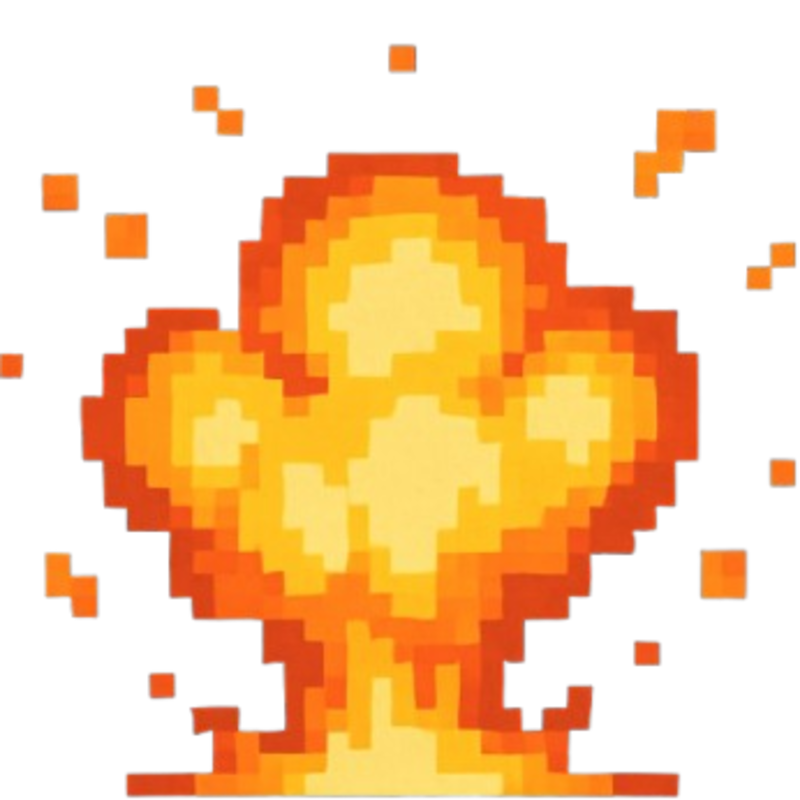
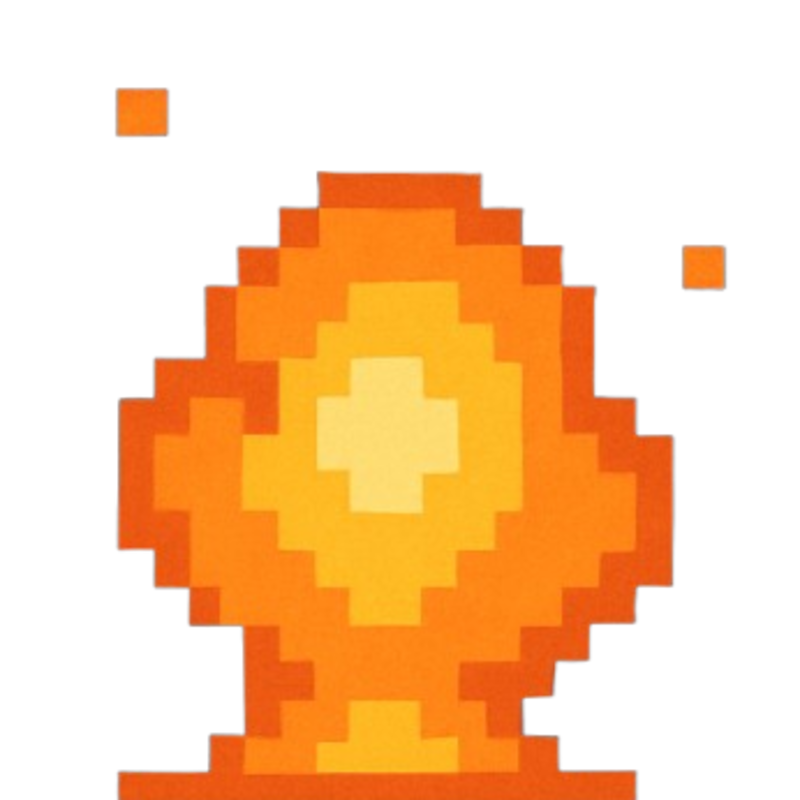
画像追加

diff --git a/DxLib_TGS2025/Src/Object/car.cpp b/DxLib_TGS2025/Src/Object/car.cpp
@@ -159,6 +159,7 @@ void CarResourceInit(void)
 	car.boom_animtion[1] = LoadGraph("Resource/images/boom1.png");
 	car.boom_animtion[2] = LoadGraph("Resource/images/boom2.png");
 	car.boom_animtion[3] = LoadGraph("Resource/images/boom3.png");
+	car.boom_animtion[4] = LoadGraph("Resource/images/boom4.png");
 
 	car.warn_image[0] = LoadGraph("Resource/images/Warn_image2.png");
 	car.warn_image[1] = LoadGraph("Resource/images/Warn_image.png");
@@ -910,7 +911,7 @@ void CarWarnUpdate(const Goal*goal,const GameOver*gameover,const InGame*ingame)
 	 if (car.boom_flag == true)
 	 {
 		 car.boom_count++;
-		 if (car.boom_count > 30 && car.boom_count % 10 == 0 && car.boom_num < 4)
+		 if (car.boom_count > 30 && car.boom_count % 12 == 0 && car.boom_num < 5)
 		 {
 			 car.boom_num++;
 		 }
@@ -931,7 +932,7 @@ void CarWarnUpdate(const Goal*goal,const GameOver*gameover,const InGame*ingame)
 		 if (car.boom_count > 30)
 		 {
 
-			 DrawRotaGraphF(carx+20.0f, cary-50.0f, 0.3, 0.0, car.boom_animtion[car.boom_num], TRUE);
+			 DrawRotaGraphF(carx+20, cary-50, 0.2, 0.0, car.boom_animtion[car.boom_num], TRUE);
 
 			 /*if (car.boom_count < 60)
 			 {

diff --git a/DxLib_TGS2025/Src/Object/car.h b/DxLib_TGS2025/Src/Object/car.h
@@ -30,7 +30,7 @@ struct Car
     int ivy_num;
     int ivy_se;
 
-    int boom_animtion[4];
+    int boom_animtion[5];
     bool boom_flag;
     int boom_count;
     int boom_num;
